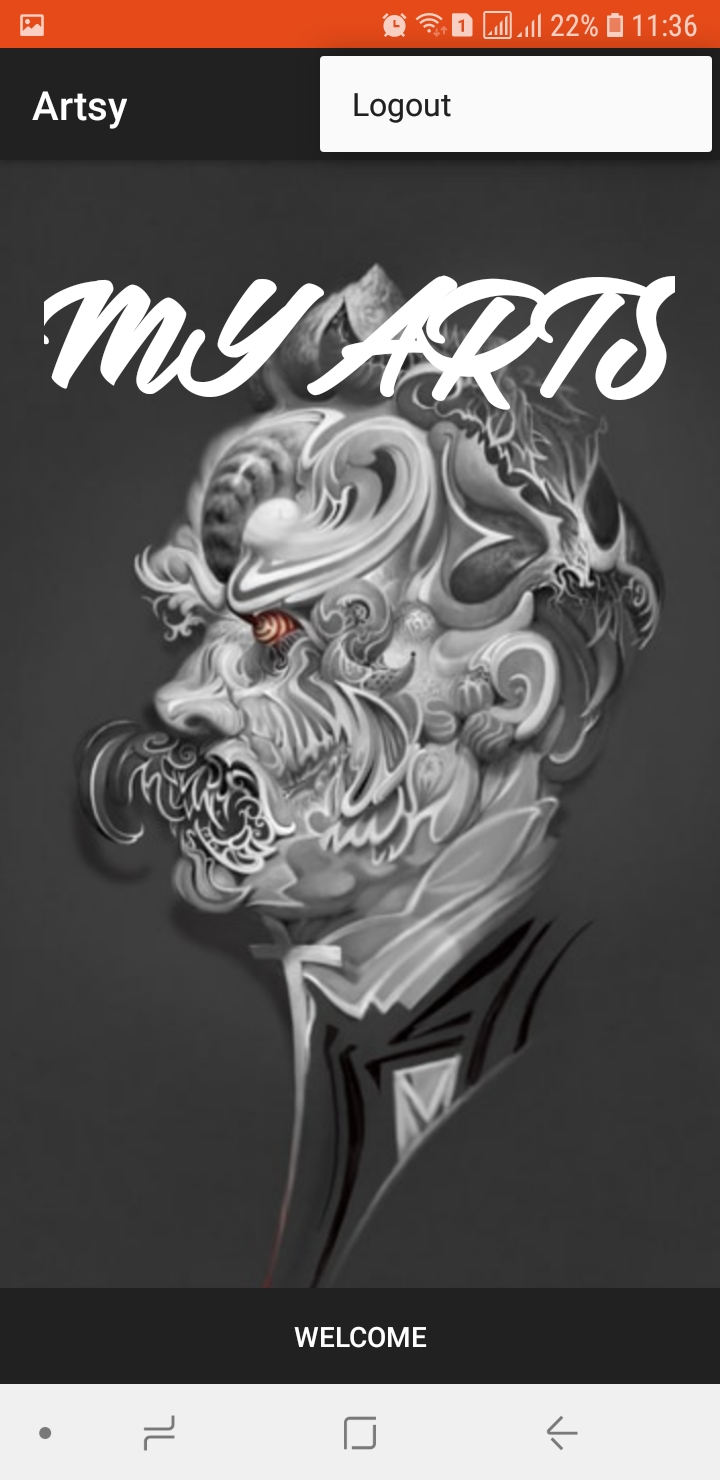
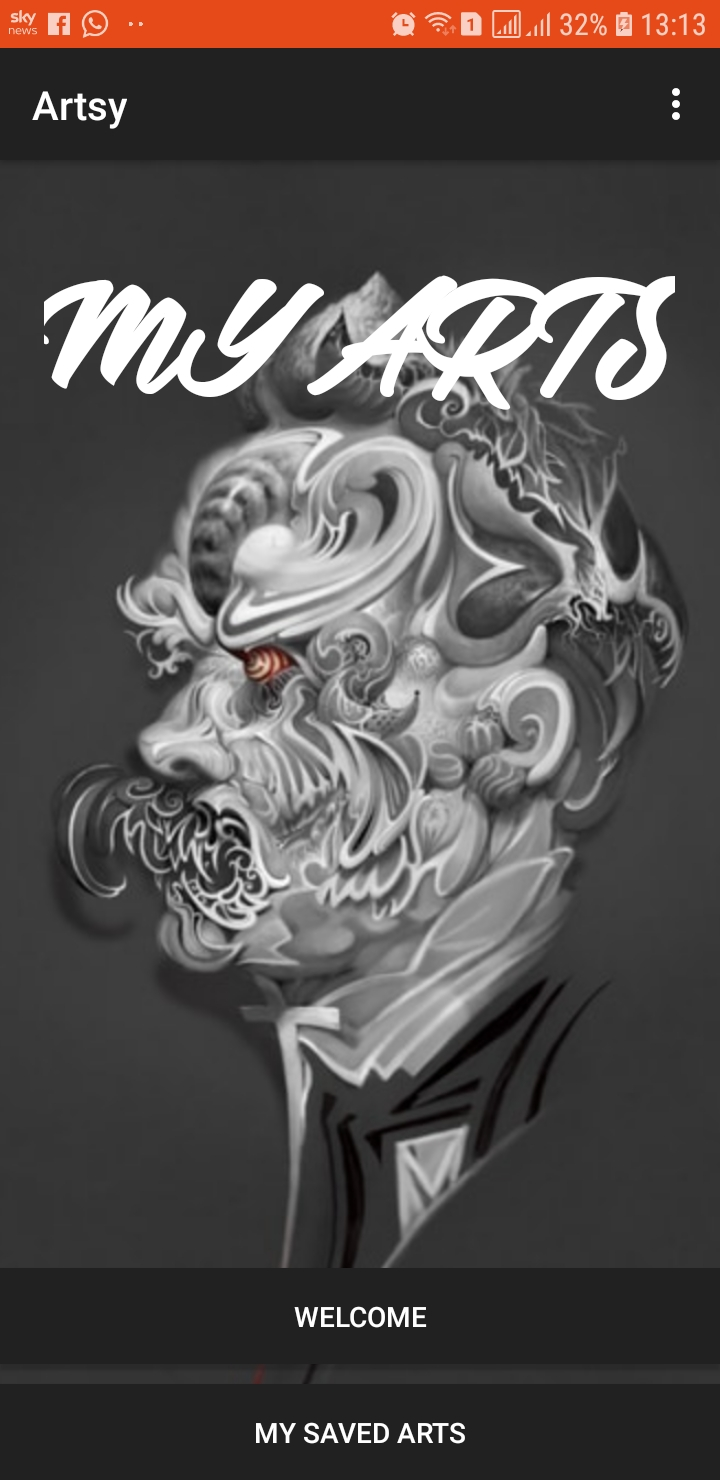
add an image of the saved arts activity to README.md

diff --git a/README.md b/README.md
@@ -39,6 +39,9 @@ There are no known bugs in the application but if you encounter any please open 
 <img src="/READMEimages/all.jpg" width="20%" /> <img src="/READMEimages/Single.jpg" width="20%" /> <img src="/READMEimages/Single2.jpg" width="20%" />
 
 
+<img src="/READMEimages/Saved.jpg" width="20%" />
+
+
 
 
 ## Author
